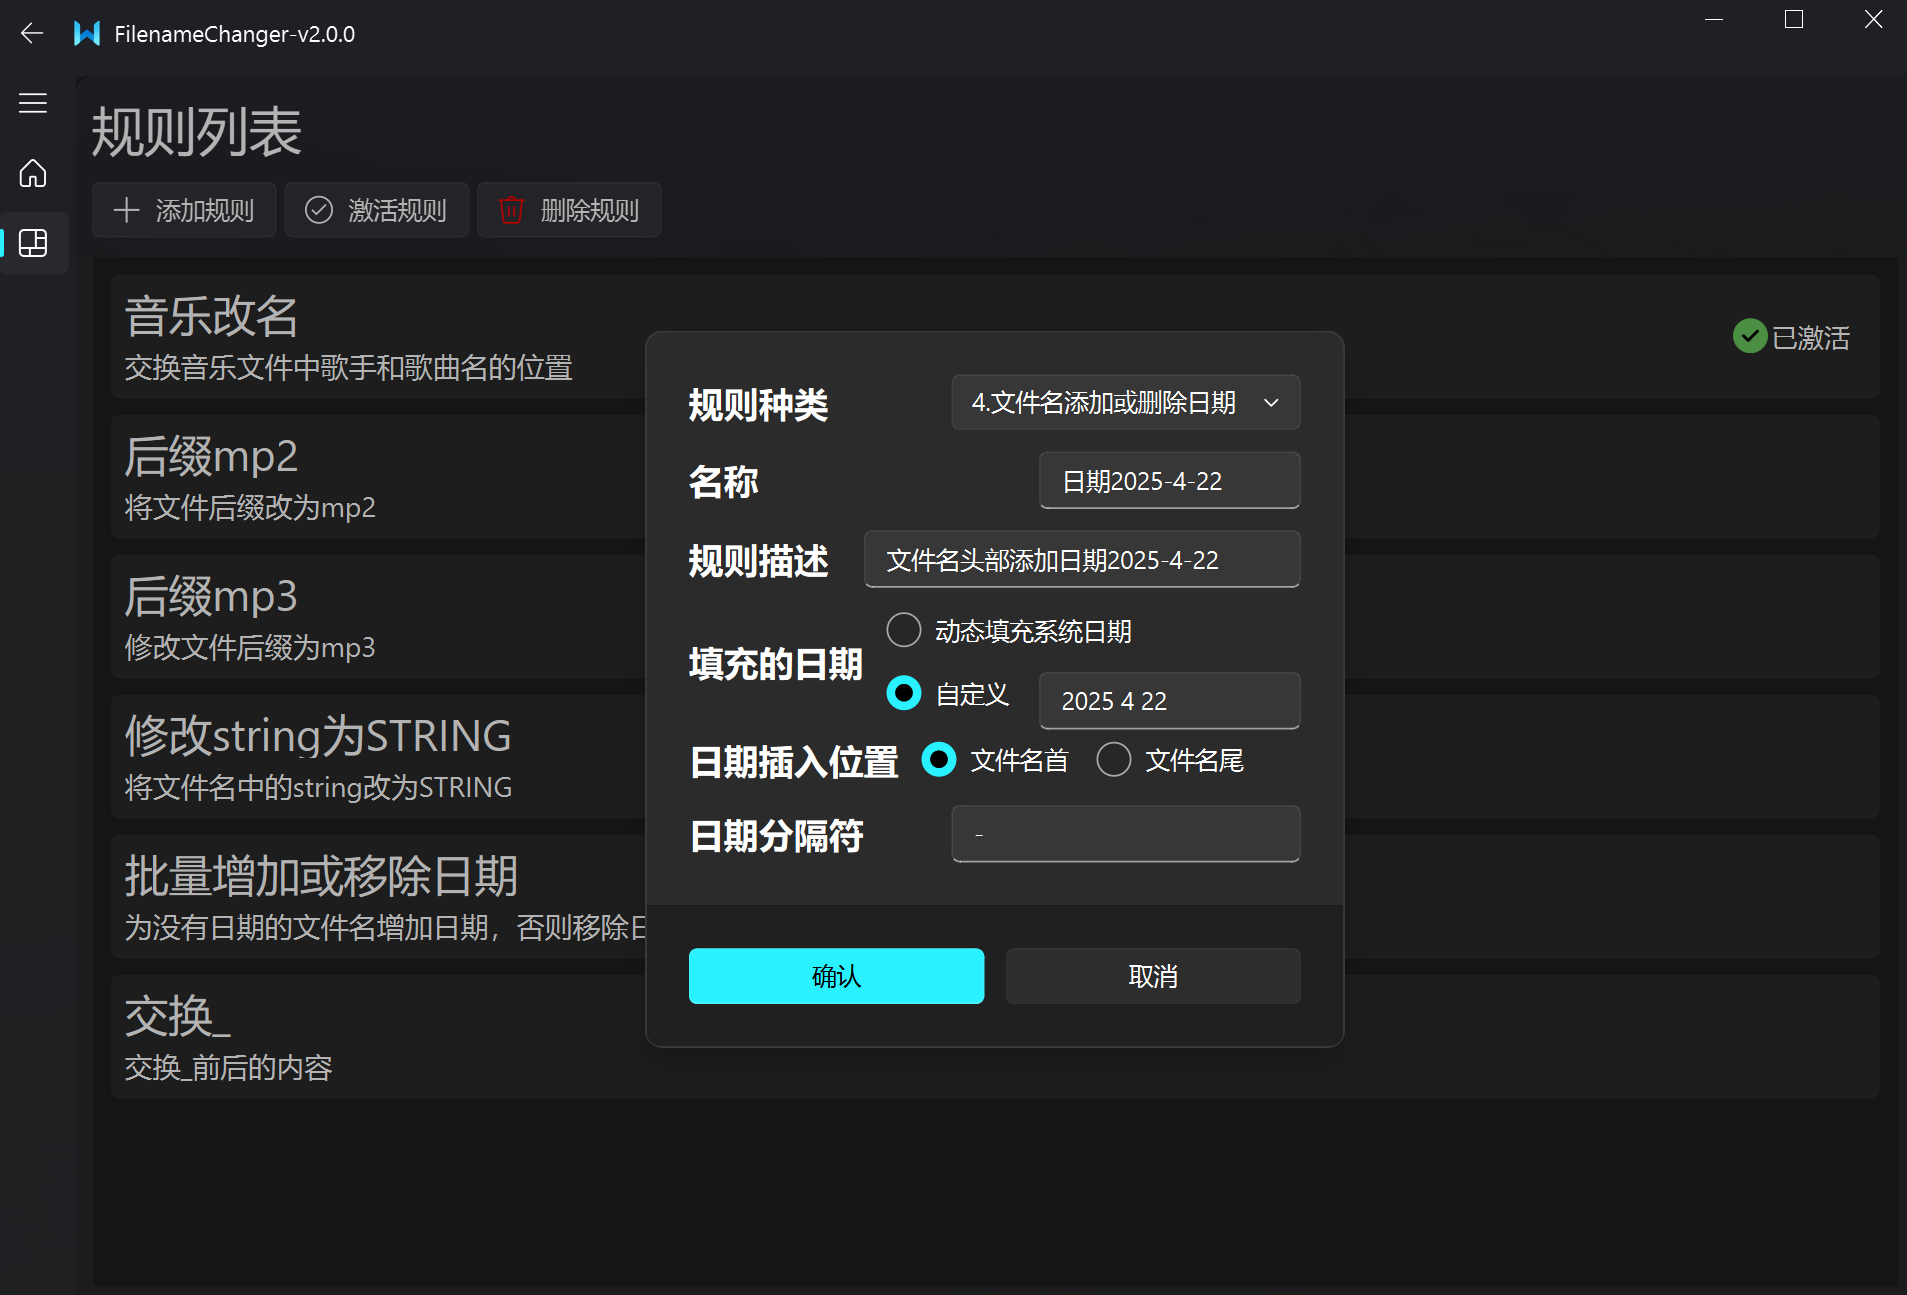
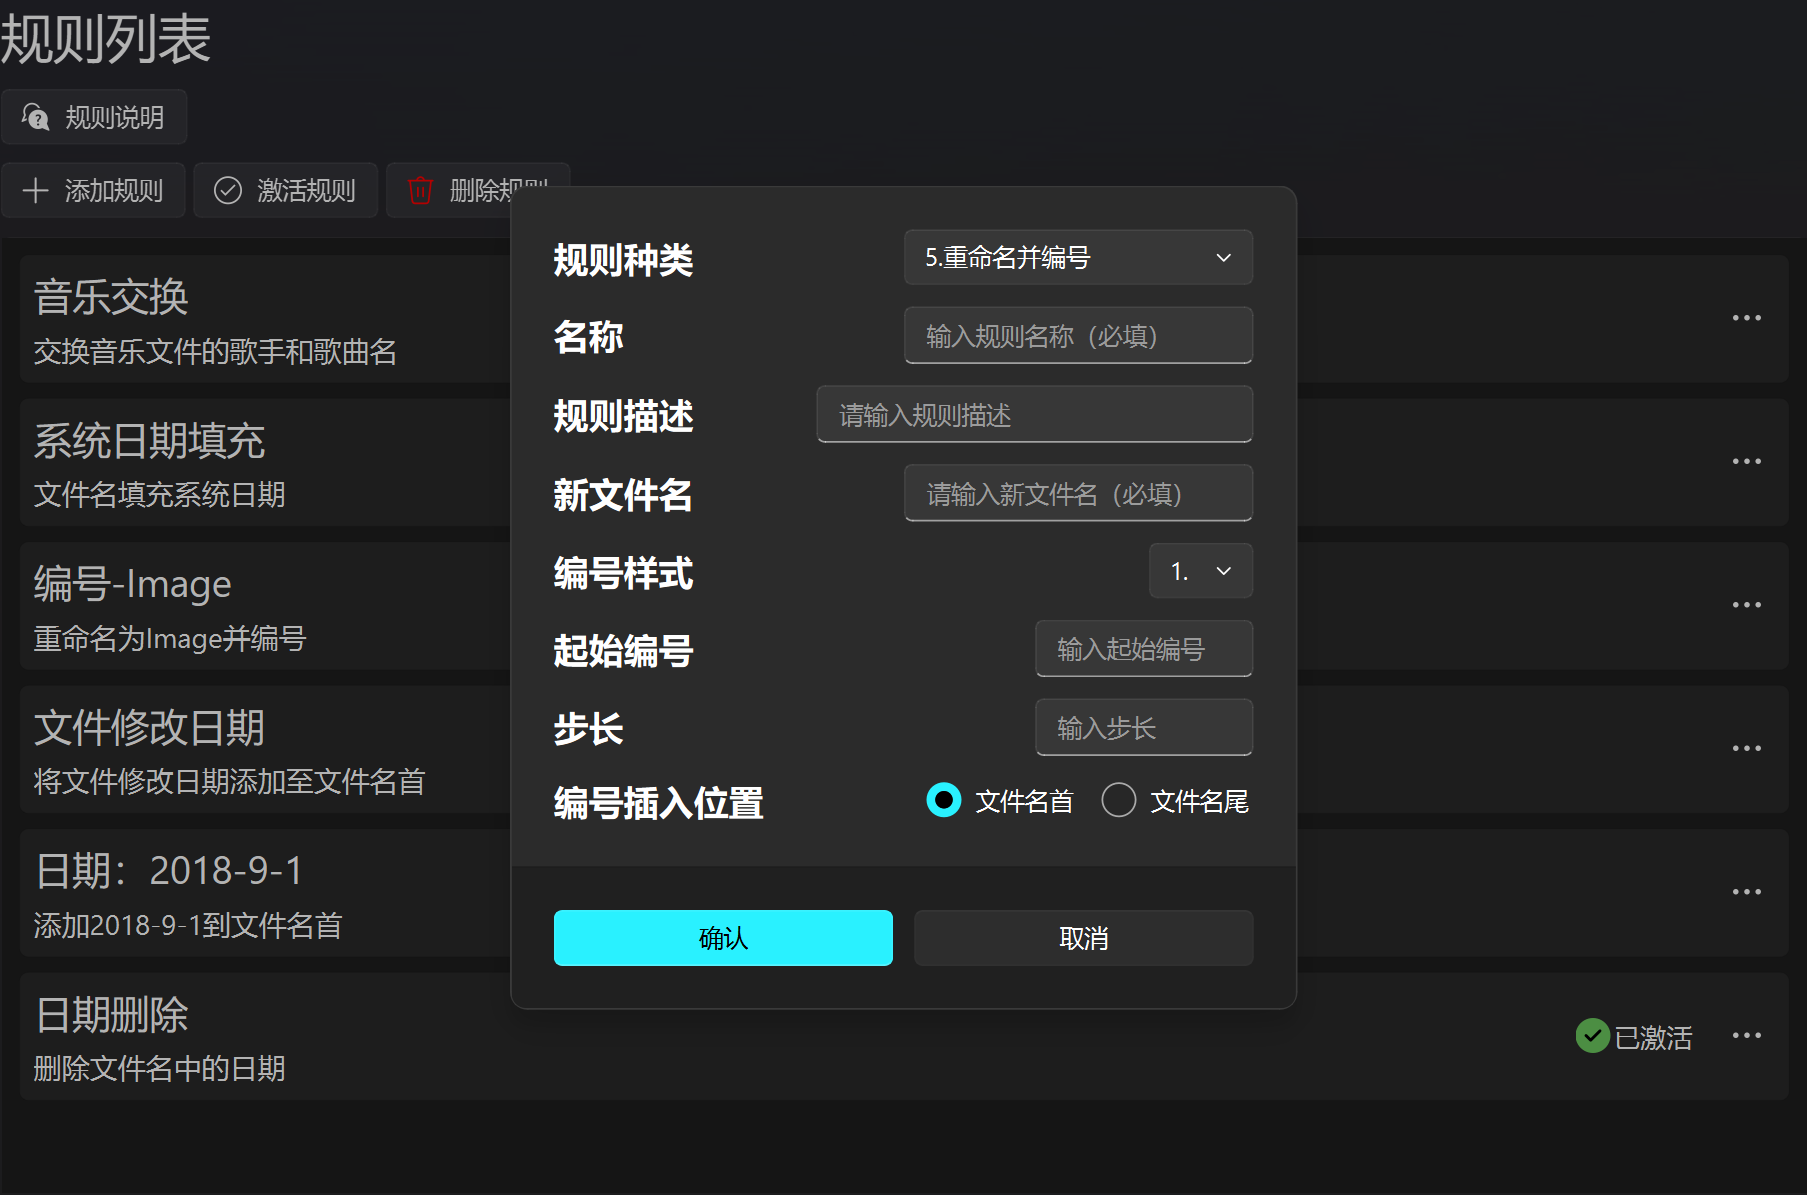
修改自述文件

diff --git a/README.md b/README.md
@@ -9,28 +9,31 @@
 
 ## 效果展览
 
-![程序主页](./assets/imagines/主页.png "程序主页")
+![程序主页](./assets/imagines/程序主页.png "程序主页")
 
 ![规则列表](./assets/imagines/规则列表.png "规则列表")
 
 ![新增规则](./assets/imagines/新增规则.png "新增规则")
 
+![规则详情](./assets/imagines/规则详情.png "规则详情")
+
+![历史记录列表](./assets/imagines/历史记录列表.png "历史记录列表")
+
+![历史记录详情](./assets/imagines/历史记录详情.png "历史记录详情")
+
 ## 已支持的规则类型
 
-1. 交换文件名特定分隔符前后内容
-
+1. 交换文件名中指定分隔符前后的内容
 2. 批量更改文件扩展名
-
-3. 修改文件名中指定的字符串
-
-4. 为文件名添加或删除日期（默认添加当前系统日期）
+3. 修改文件名中指定的字符串，支持正则表达式
+4. 将文件名中的日期替换为指定日期，支持替换为重命名时的系统日期、文件创建日期、文件修改日期、文件访问日期和空日期（即删除日期）
+5. 重命名为同一文件名并编号，可自定义起始编号和正整步长
 
 ## 安装和使用
 
 以下方法选择其一：
 
 1. 使用git克隆该仓库，运行主文件夹内的main.py
-
 2. 从Release下载已打包好的程序
 
 ## 使用的开源项目
